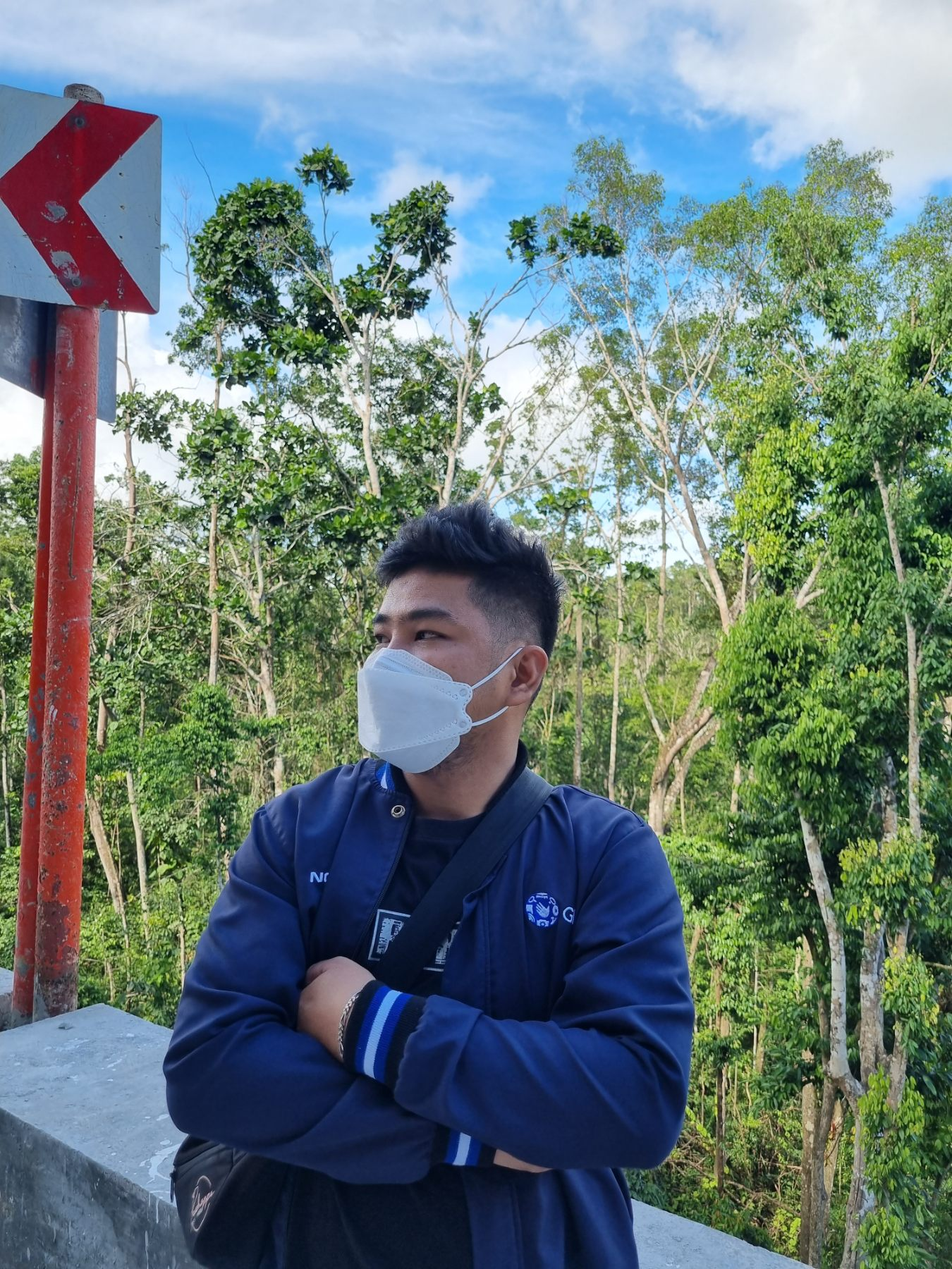
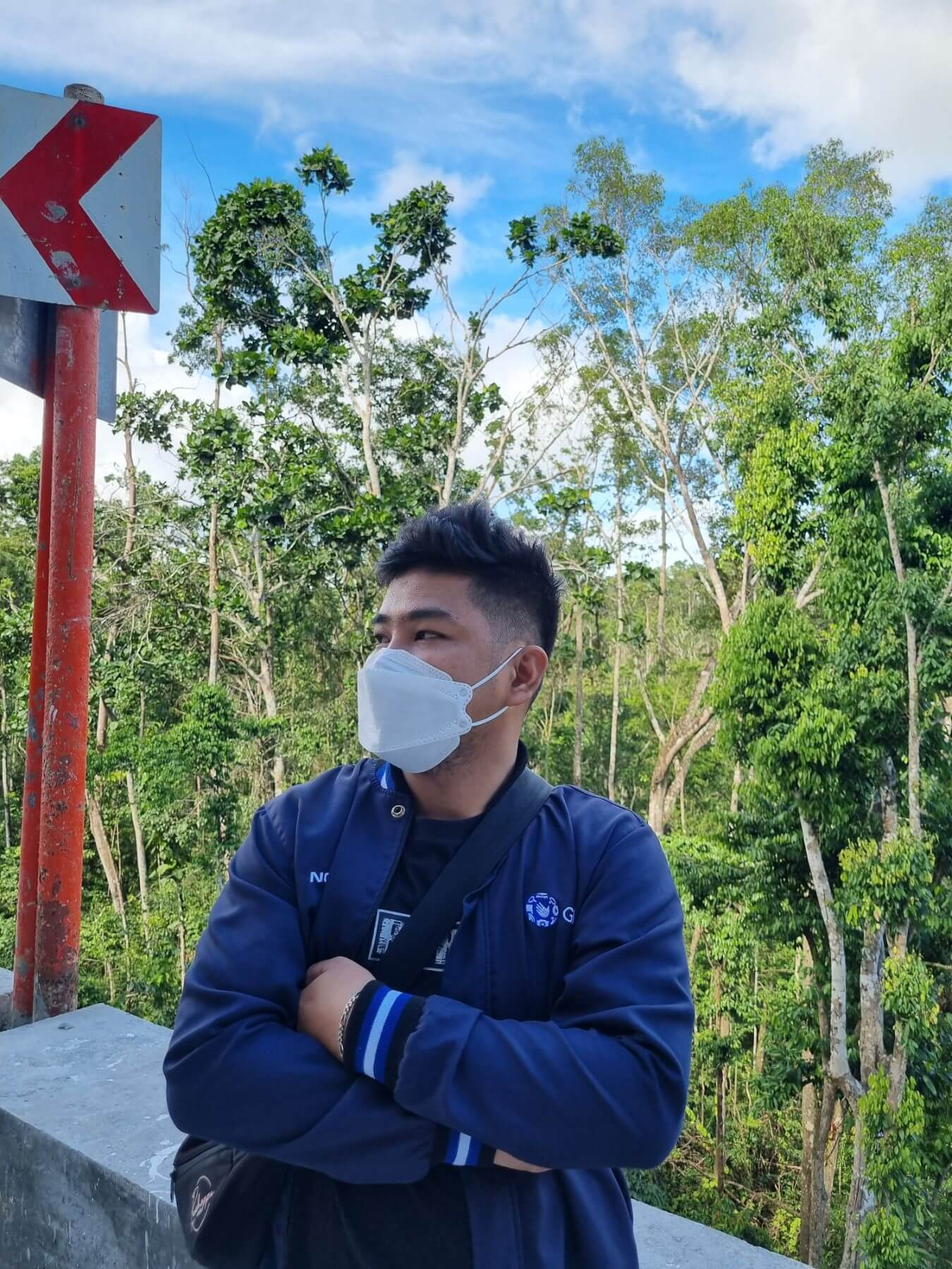
push new changes

diff --git a/src/data/constants.jsx b/src/data/constants.jsx
@@ -1,14 +1,14 @@
-import orange_apps from '../images/Orange Apps.jpg'
-import paydro from '../images/Paydro.jpg'
-import globe_awards from '../images/globe-awards.jpg'
-import fortress from '../images/fortress.jpg'
-import crud from '../images/react-crud-toolkit.png'
-import tenzies from '../images/tenzies.png'
-import msg from '../images/Web_Messaging_firbase.png'
+import orange_apps from '../images/orange-apps.webp'
+import paydro from '../images/paydro.webp'
+import globe_awards from '../images/globe-awards.webp'
+import fortress from '../images/fortress.webp'
+import crud from '../images/react-crud-toolkit.webp'
+import tenzies from '../images/tenzies.webp'
+import msg from '../images/web-messaging-firebase.webp'
 import darbot from '../images/darbot.png'
 // import ecart from '../images/react-ecart.png'
-import datastudio from '../images/datastudio.jpg'
-import brainwave from '../images/Brainwave Quiz Master.png'
+import datastudio from '../images/datastudio.webp'
+import brainwave from '../images/Brainwave Quiz Master.webp'
 
 import HomeOutlinedIcon from '@mui/icons-material/HomeOutlined';
 import PsychologyOutlinedIcon from '@mui/icons-material/PsychologyOutlined';
@@ -88,7 +88,7 @@ export const Bio = {
         "Programmer",
     ],
     description:
-        "A motivated and versatile individual, always eager to take on new challenges. With a passion for learning and dedicating to deliver high-quality results. A positive attitude and a growth mindset, I am ready to make a meaningful contribution and achieve great things.",
+        "A motivated and versatile individual, always eager to take on new challenges. With a passion for learning and dedicating to deliver high-quality results. A positive attitude and a growth mindset, Always to make a meaningful contribution and achieve great things.",
     github: "https://github.com/What-a-tops",
     resume:
         "https://drive.google.com/file/d/1WE964I4tK827KtXLR-bKbGGm4roLVo5Q/view?usp=sharing",

diff --git a/src/components/HeroSection/index.jsx b/src/components/HeroSection/index.jsx
@@ -1,7 +1,8 @@
+import { Helmet } from 'react-helmet'
 import styled from 'styled-components'
 import {Bio} from "../../data/constants.jsx";
 import Typewriter from 'typewriter-effect';
-import HeroImg from '../../images/me.jpg'
+import HeroImg from '../../images/me.webp'
 import HeroBgAnimation from "../HeroBgAnimation/index.jsx";
 const HeroContainer = styled.div`
   background: ${({ theme }) => theme.card_light};
@@ -205,8 +206,8 @@ const Image = styled.img`
   border: 2px solid ${({ theme }) => theme.primary};
   
   @media screen and (max-width: 960px) {
-    max-height: 400px;
-    max-width: 400px;
+    max-height: 350px;
+    max-width: 350px;
   }
 
   @media screen and (max-width: 640px) {
@@ -245,7 +246,7 @@ const Hero = () => {
                         </ResumeButton>
                     </HeroLeftContainer>
                     <HeroRightContainer id="right">
-                        <Image src={HeroImg} alt={HeroImg} />
+                          <Image fetchpriority="high" src={HeroImg} alt={HeroImg} />
                     </HeroRightContainer>
                 </HeroInnerContainer>
             </HeroContainer>

diff --git a/src/components/Cards/ExperienceCards.jsx b/src/components/Cards/ExperienceCards.jsx
@@ -74,6 +74,7 @@ const Top = styled.div`
 
 const Logo = styled.img`
   height: 50px;
+  width: 50px;
   background-color: #000;
   border-radius: 10px;
   margin-top: 4px;
